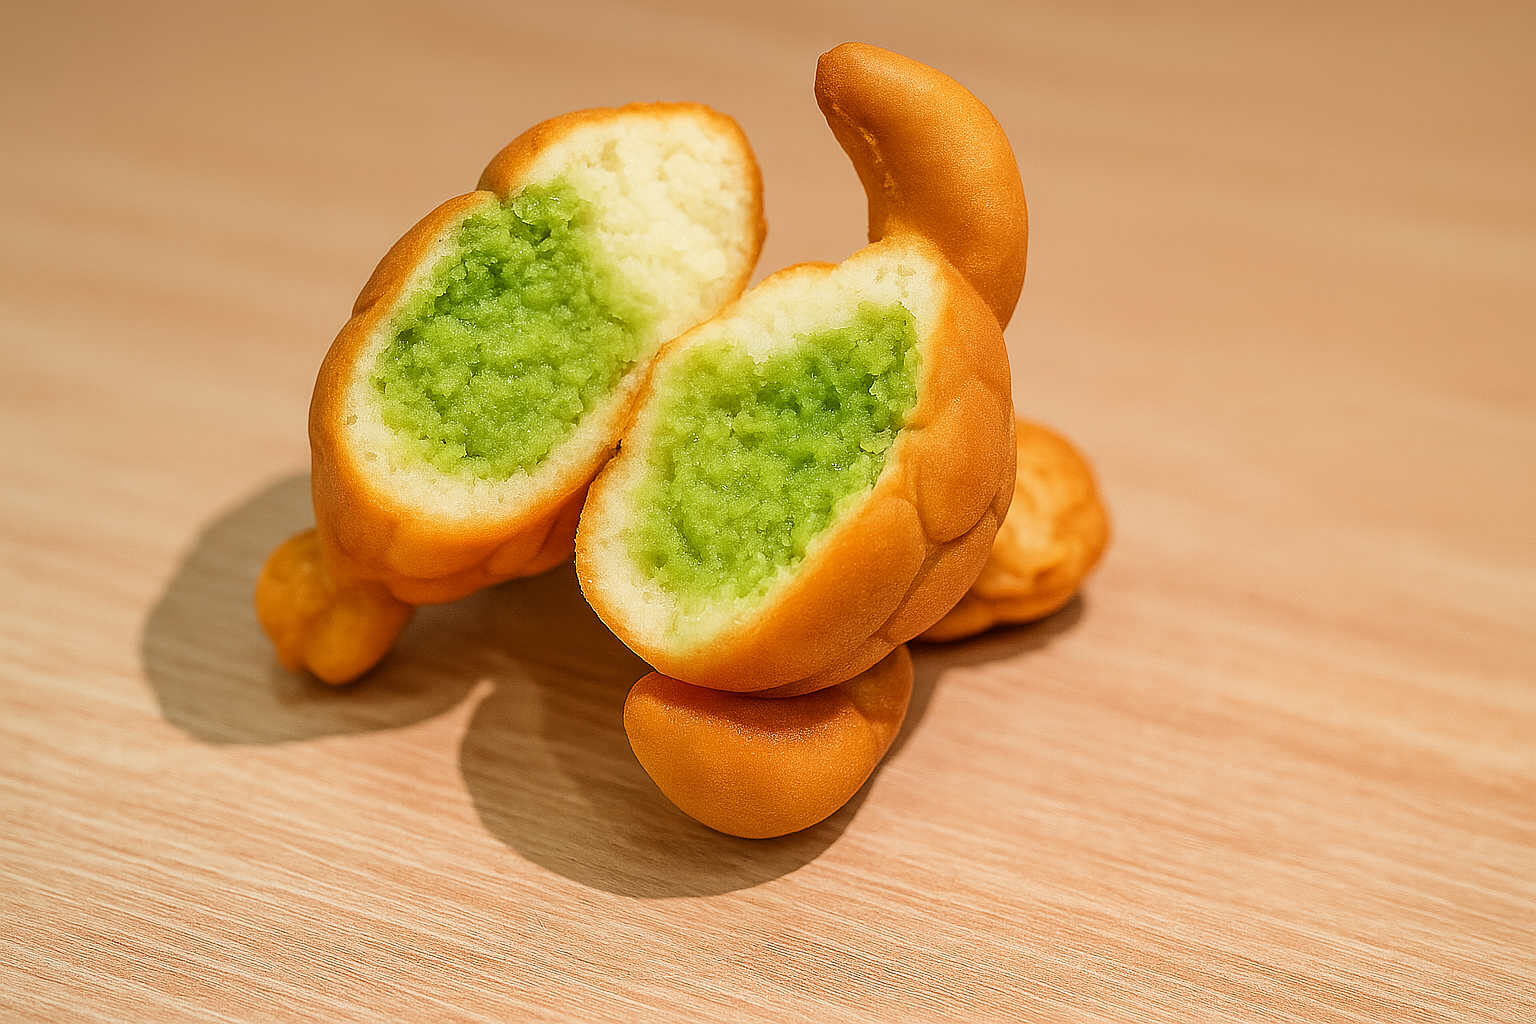
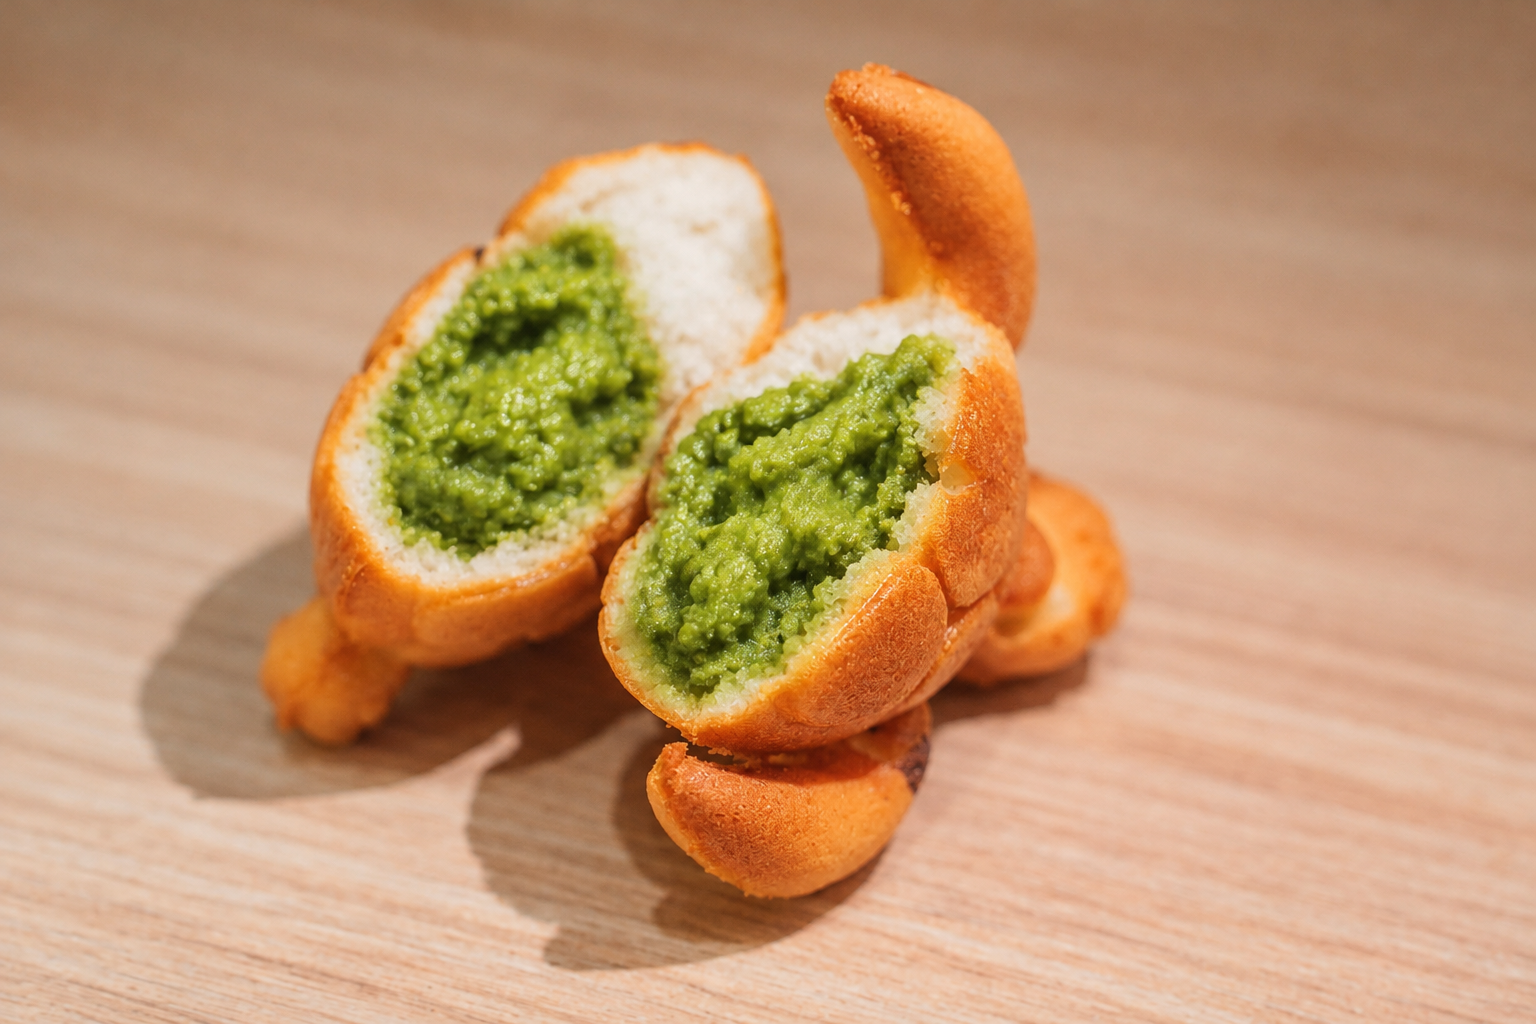
change photo

diff --git a/AGENTS.md b/AGENTS.md
@@ -1,0 +1,39 @@
+# AGENTS.md
+
+This file provides guidance to Codex (claude.ai/code) when working with code in this repository.
+
+## What this is
+
+A single-page marketing site for 看海過日子 (Enjoy Ocean), a 海龜燒 (turtle-shaped pastry) shop on 小琉球 (Liuqiu Island), Taiwan. It is served by **GitHub Pages** at the custom domain in `CNAME` (`enjoyocean.tw`). Pushing to `main` deploys it. There is no build step, package manager, linter or test suite.
+
+All page content is in Traditional Chinese (`zh-Hant`). Keep new copy in Traditional Chinese, and write code comments in Chinese to match the existing ones.
+
+## Local preview
+
+```sh
+python3 -m http.server 8000   # then open http://localhost:8000
+```
+
+Opening `index.html` directly also works. The only external dependencies are Google Fonts and the Google Maps embed iframe.
+
+## Structure of `index.html`
+
+Everything (HTML, CSS in one `<style>` block, a small inline `<script>`) lives in `index.html`. Images sit in the repo root next to it.
+
+- **Theme tokens**: all colors, radius, shadow and font stacks are CSS variables on `:root` at the top of the `<style>` block. Change colors there instead of in individual rules.
+- **Icons**: an inline SVG sprite at the top of `<body>` defines `#i-phone`, `#i-map`, `#i-ig`, and buttons reference them with `<svg><use href="#i-..."/></svg>`.
+- **Sections** (in order): sticky header/nav → hero (`#top`) → features strip → limited flavors (`#limited`) → best sellers (`#flavors`) → menu image (`#menu`) → IG call-to-action → visit info and map (`#visit`) → footer → mobile `.dock` (a fixed bottom button bar, shown only at ≤860px).
+- **Adding a limited-edition flavor**: duplicate a whole `<article class="lim-card">…</article>` block inside `.limited` (the HTML comment above the section says so).
+- **Scroll animation**: any element with class `.reveal` fades in via IntersectionObserver. It respects `prefers-reduced-motion`.
+- **Breakpoints**: 860px (nav hidden, hero stacks, dock appears) and 760px (grids drop to one column).
+
+## Business info appears in several places
+
+The phone number, address, Instagram URL and Google Maps link are repeated throughout the page: header, hero CTAs, limited cards, menu note, visit section, dock, `<meta name="description">`, and the JSON-LD `Bakery` schema in `<head>`. When any of these change, update every occurrence. Search for `0980008291` / `980-008-291`, `enjoy_ocean_`, `maps.app.goo.gl` and `民生路27-1號`. The OG/JSON-LD image and logo URLs are absolute (`https://enjoyocean.tw/...`), so renaming those image files also means updating the meta tags.
+
+## Asset gotchas
+
+- GitHub Pages is case-sensitive, so image `src` values must match filenames exactly (e.g. `logo-img.PNG`, not `logo-img.png`).
+- Git tracks both `menu.jpg` and `menu.JPG` (identical content). They collide on the default case-insensitive macOS filesystem. The page uses `menu.jpg`.
+- Some images use Chinese filenames (`卡士達1.png`, `抹茶.png`) and are referenced unescaped in `src`.
+- Several images are multi-MB originals (e.g. `logo-img.PNG` is about 8.5 MB and is also the favicon). `DSC05125.jpg` and `IMG_8881 2.JPG` are not referenced by the page.
